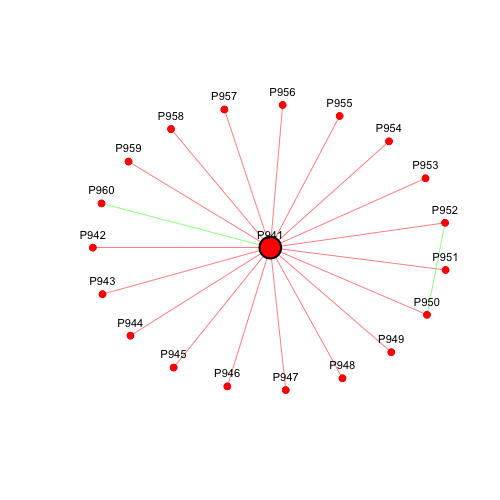
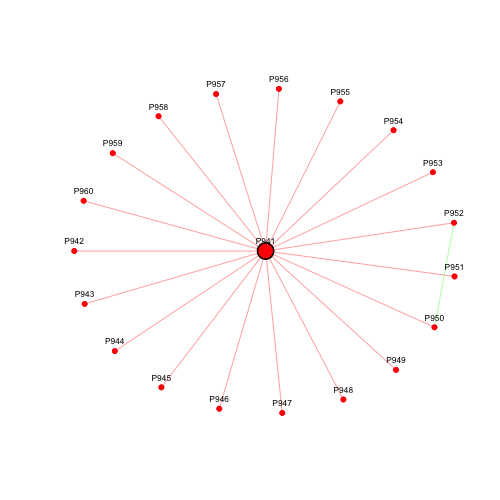
Bump to 0.3.1: fix jacmle sign error and EM convergence guard
- Fixed jacmle(): all four Jacobian entries had the wrong sign, causing
  nleqslv to fail (termcd=3) every M-step and leaving ahat/bhat stuck
  at their initial values (8, 3) throughout the EM.
- M-step now only accepts nleqslv solutions with termcd in {1, 2};
  non-converged (termcd=3) and step-back (termcd=5) results are ignored,
  preventing the oscillation cycle seen in SixHourImbibed.
- Added plotNonNullDensity() as a standalone exported function.
- Vignette images and example output regenerated with corrected estimates.
- Benchmark results updated; all three dataset reports regenerated.

diff --git a/NEWS.md b/NEWS.md
@@ -1,3 +1,20 @@
+# betaMix 0.3.1
+
+## Bug fixes
+
+- Fixed `jacmle()`: all four entries of the 2×2 Jacobian matrix had the wrong
+  sign, causing `nleqslv` to fail with `termcd = 3` (maximum iterations
+  exceeded) on every EM M-step. As a result, `ahat` and `bhat` never moved
+  from their initial values (8, 3) in any dataset.
+- M-step now only updates `ahat`/`bhat` when `nleqslv` reports successful
+  convergence (`termcd` ∈ {1, 2}). Non-converged (`termcd = 3`) and
+  step-back (`termcd = 5`) results are silently ignored, preventing the EM
+  oscillation cycle that appeared for SixHourImbibed once the Jacobian sign
+  was corrected.
+- Vignette images and example output regenerated with the corrected estimates.
+
+---
+
 # betaMix 0.3.0
 
 ## New features
